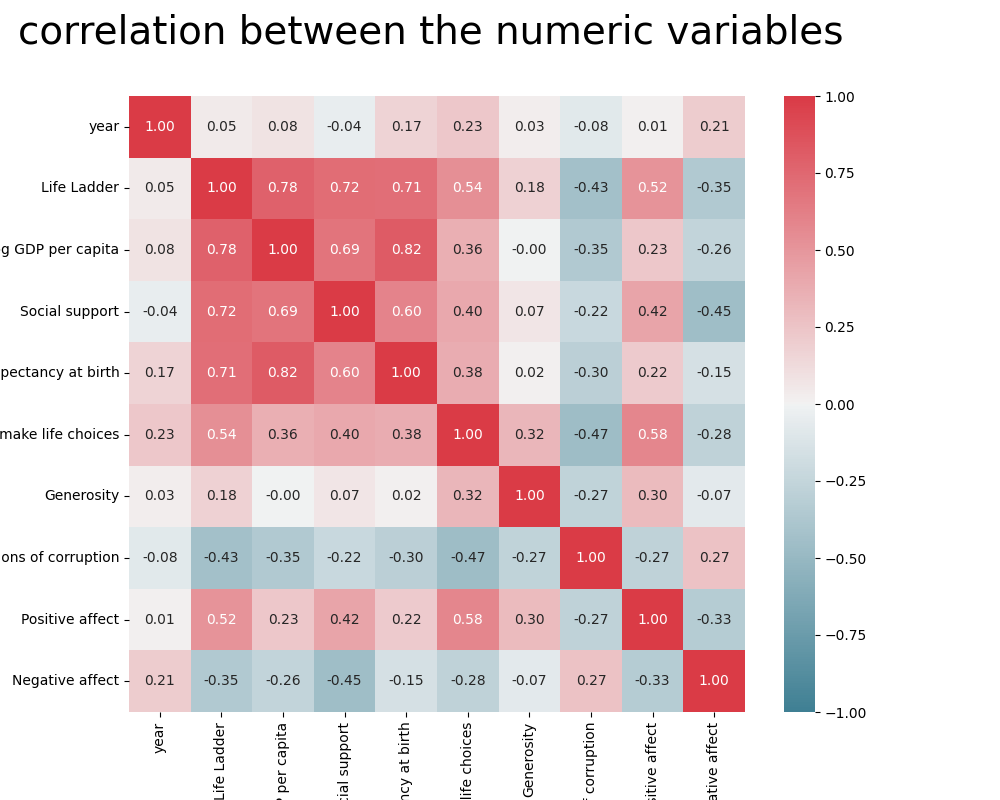
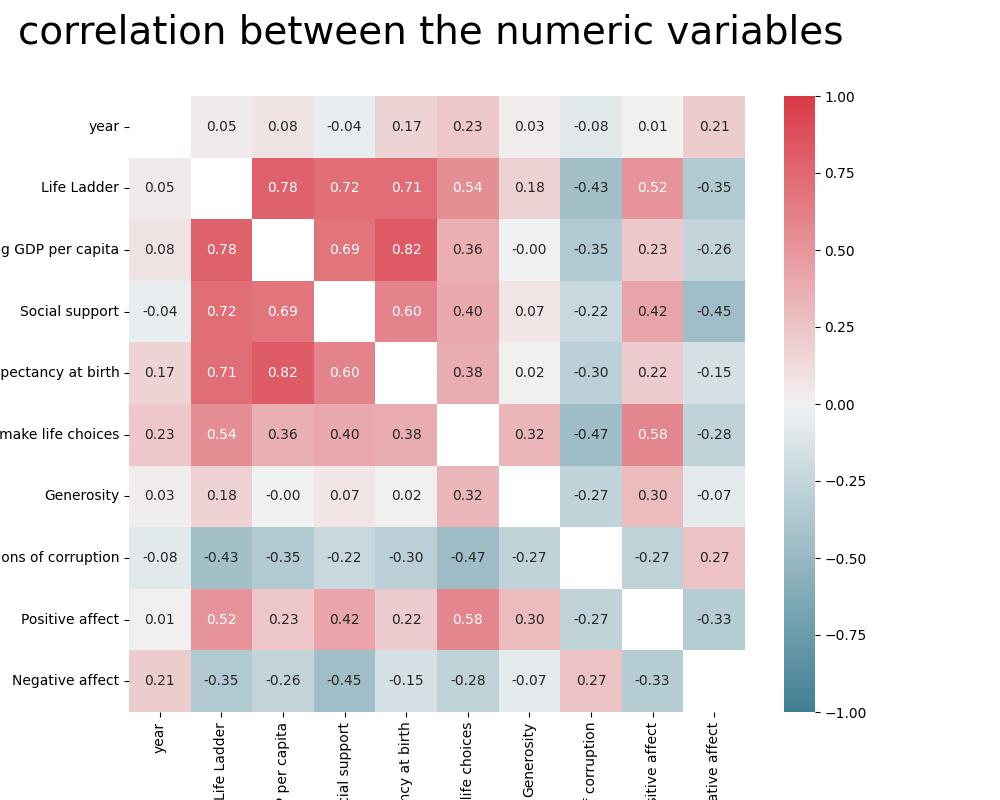
function structure update

Changed region(s): [[0.124, 0.0938, 0.558, 0.6562], [0.558, 0.6562, 0.682, 0.8125], [0.682, 0.8125, 0.744, 0.9062]]

diff --git a/autolysis.py b/autolysis.py
@@ -11,109 +11,128 @@ import sys
 import seaborn as sns
 import matplotlib.pyplot as plt
 
+# 1 create a new directory with filename
 
-# 1 extract filename
-
-file_path="".join(sys.argv[1:]) #
-file_name=os.path.splitext(os.path.basename(file_path))[0]
-
-# 2 create a new directory with filename
-new_dir = os.path.join(os.getcwd(), file_name)
-print(new_dir)
-print(file_path)
-os.makedirs(new_dir, exist_ok=True)
+def create_new_dir(file_name):
+    new_dir = os.path.join(os.getcwd(), file_name)
+    #print(new_dir)
+    #print(file_path)
+    os.makedirs(new_dir, exist_ok=True)
+    return new_dir
   
-# 3 Perform an automated generic analysis
+# 2 Perform an automated generic analysis
 
-df=pd.read_csv(file_path,encoding='latin-1')
+def auto_gen_analysis(file_path):
+    df=pd.read_csv(file_path,encoding='latin-1')
 
-# describing the data
+    # describing the data
 
-n_rows=df.shape[0] # how many samples ?
-n_cols=df.shape[1] # how many variables?
-print (n_rows,n_cols)
+    n_rows=df.shape[0] # how many samples ?
+    n_cols=df.shape[1] # how many variables?
+    #print (n_rows,n_cols)
 
-variables=np.array(df.columns) # names of the variables
+    variables=np.array(df.columns) # names of the variables
 
-# understanding the types of variables & missing values
+    # understanding the types of variables & missing values
 
-dtypes = pd.DataFrame(df.dtypes).reset_index()  
-dtypes.columns = ['variable', 'data_type']  
-missing_data=pd.DataFrame(df.isnull().sum()).reset_index()
-missing_data=missing_data.rename(columns={'index':'variable'})
-dtypes=pd.merge(dtypes,missing_data,on='variable')
-dtypes.columns=['variable','data_type','missing_data']
+    dtypes = pd.DataFrame(df.dtypes).reset_index()  
+    dtypes.columns = ['variable', 'data_type']  
+    missing_data=pd.DataFrame(df.isnull().sum()).reset_index()
+    missing_data=missing_data.rename(columns={'index':'variable'})
+    dtypes=pd.merge(dtypes,missing_data,on='variable')
+    dtypes.columns=['variable','data_type','missing_data']
 
-# segregating the numeric and categorical variables
+    # segregating the numeric and categorical variables
 
-num_var=df.select_dtypes(include=['number'])
-cat_var=df.select_dtypes(include=['object'])
+    num_var=df.select_dtypes(include=['number'])
+    cat_var=df.select_dtypes(include=['object'])
 
-# correlation map for the numerical variables
+    # correlation map for the numerical variables
 
-df_corr=num_var.corr()
-df_corr_mask=df_corr.mask(np.equal(*np.indices(df_corr.shape)))
+    df_corr=num_var.corr()
+    df_corr_mask=df_corr.mask(np.equal(*np.indices(df_corr.shape)))
 
-max_corr = df_corr_mask.abs().max().max() # fining the max correlation value
-row_max, col_max = df_corr_mask[df_corr_mask.abs() == max_corr].stack().idxmax()
+    max_corr = df_corr_mask.abs().max().max() # fining the max correlation value
+    row_max, col_max = df_corr_mask[df_corr_mask.abs() == max_corr].stack().idxmax()
 
-
+    anal_sum={
+                "n_samples":n_rows,
+                "n_variables":n_cols,
+                "var_dets":dtypes.to_dict(),
+                "num_var":num_var,
+                "cat_var":cat_var,
+                "corr_matrix":df_corr.to_dict(),
+                "max_corr_1":row_max,
+                "max_corr_2":col_max,
+                "max_corr":round(max_corr,2)
+            }
+   
+    return anal_sum,df_corr_mask,df_corr,dtypes
   
-# 4 create a README.md file
-with open(os.path.join(new_dir,'README.md'), 'w') as f:
-    f.write(f"# Analysis Summary for {file_name}.csv\n\n")
+# 3 create a README.md file
+
+def read_me(new_dir,file_name,anal_sum,dtypes):
     
-    f.write(f"The dataset conatins {n_rows} samples with {n_cols} variables each\n\n")
-    #f.write(f"the number of variables in the dataset:{n_cols} \n\n")
+    with open(os.path.join(new_dir,'README.md'), 'w') as f:
+       
+        f.write(f"# Analysis Summary for _{file_name}.csv_\n\n")
 
-    f.write("the summary is the datatypes and number of missing values is as below\n\n")
+        f.write(f"-The dataset contains **{anal_sum['n_samples']}** samples with **{anal_sum['n_variables']} variables** each\n\n")
+        
+        f.write(f"Of the {anal_sum ['n_variables']} variables, **{len(anal_sum ['num_var'].columns)} are numeric variables** while **{len(anal_sum ['cat_var'].columns)} are categorical variables** \n\n")
 
-    f.write(dtypes.to_markdown(index=False))
+        f.write("* -The summary is the datatypes and number of missing values is as below\n\n")
 
-    f.write(f"\n\nThe variables with the highest correlation are: {row_max} and {col_max}, with a correlation of {round(max_corr,2)}\n\n")
+        f.write(dtypes.to_markdown(index=False))
 
-# 5 create key charts
+        f.write(f"\n\n-The variables with the highest correlation are: **{anal_sum['max_corr_1']}** and **{anal_sum['max_corr_2']}**, with a correlation of _{anal_sum['max_corr']}_\n\n")
 
-plots = []
+    return f
 
-# correlation heat map
+# 4 create key charts
 
-plt.figure(figsize=(10, 8))
-sns.heatmap(
-    df_corr,
-    vmin=-1, vmax=1, center=0,
-    cmap=sns.diverging_palette(220,10,as_cmap=True),
-    square=True,
-    annot=True,fmt=".2f"
-)
-plt.title("correlation between the numeric variables \n",fontsize=28)
-corr_heatmap_path=os.path.join(new_dir,"corr_heatmap.png")
-plt.savefig(corr_heatmap_path)
-plt.close()
-plots.append(corr_heatmap_path)
-
-# categorical variable pie charts
-
-
-import math
-ntot=len(cat_var.columns)
-cols=math.ceil(math.sqrt(ntot))
-rows=math.ceil(ntot/cols)
-
-fig,axes=plt.subplots(rows,cols,figsize=(15,15))
-
-if ntot == 1:
-    axes = [axes]
-else:
-  axes=axes.flatten()
-
-for i,col in enumerate(cat_var.columns):
+def key_charts(df_corr_mask,new_dir,anal_sum):
     
-    data = cat_var[col].value_counts(dropna=False)
-    top5 = data.head(5)
-    rest = data.iloc[5:].sum() 
+    plots = []
 
-    plot_data=pd.concat([top5, pd.Series([rest], index=['rest'])])
+    # correlation heat map
+
+    plt.figure(figsize=(10, 8))
+    sns.heatmap(
+        df_corr_mask,
+        vmin=-1, vmax=1, center=0,
+        cmap=sns.diverging_palette(220,10,as_cmap=True),
+        square=True,
+        annot=True,fmt=".2f"
+    )
+    plt.title("correlation between the numeric variables \n",fontsize=28)
+    corr_heatmap_path=os.path.join(new_dir,"corr_heatmap.png")
+    plt.savefig(corr_heatmap_path)
+    plt.close()
+    plots.append(corr_heatmap_path)
+
+    # categorical variable pie charts
+
+
+    import math
+    ntot=len(anal_sum['cat_var'].columns)
+    cols=math.ceil(math.sqrt(ntot))
+    rows=math.ceil(ntot/cols)
+
+    fig,axes=plt.subplots(rows,cols,figsize=(15,15))
+
+    if ntot == 1:
+        axes = [axes]
+    else:
+        axes=axes.flatten()
+
+    for i,col in enumerate(anal_sum['cat_var'].columns):
+    
+        data = anal_sum['cat_var'][col].value_counts(dropna=False)
+        top5 = data.head(5)
+        rest = data.iloc[5:].sum() 
+
+        plot_data=pd.concat([top5, pd.Series([rest], index=['rest'])])
 
 
     sns.set_palette("pastel")
@@ -121,45 +140,79 @@ for i,col in enumerate(cat_var.columns):
     axes[i].set_title(col)
     axes[i].set_ylabel('')
 
-if len(cat_var.columns) < len(axes):
-    for j in range(len(cat_var.columns), len(axes)):
+    if len(anal_sum['cat_var'].columns) < len(axes):
+        for j in range(len(anal_sum['cat_var'].columns), len(axes)):
+            fig.delaxes(axes[j])
+
+    plt.title("distribution of the categorical variables \n",fontsize=28)
+    plt.tight_layout()
+
+
+    cat_pie_path=os.path.join(new_dir,"cat_pie.png")
+    plt.savefig(cat_pie_path)
+    plt.close()
+    plots.append(cat_pie_path)
+
+    # numerical variable histograms
+
+    tot_num=len(anal_sum ['num_var'].columns)
+    cols_num=math.ceil(math.sqrt(tot_num))
+    rows_num=math.ceil(tot_num/cols_num)
+
+    fig,axes=plt.subplots(rows_num,cols_num,figsize=(15,15))
+
+    if tot_num == 1:
+        axes = [axes]
+    else:
+      axes=axes.flatten()
+
+    for i,col in enumerate(anal_sum ['num_var'].columns):
+        sns.histplot(anal_sum ['num_var'][col], bins=15, ax=axes[i],kde=True)
+        axes[i].set_title(col)
+        axes[i].set_ylabel('')
+
+    for j in range(len(anal_sum ['num_var'].columns), len(axes)):
         fig.delaxes(axes[j])
 
-plt.title("distribution of the categorical variables \n",fontsize=28)
-plt.tight_layout()
+    plt.title("distribution of the numerical variables \n",fontsize=28)
+    plt.tight_layout()
 
 
-cat_pie_path=os.path.join(new_dir,"cat_pie.png")
-plt.savefig(cat_pie_path)
-plt.close()
-plots.append(cat_pie_path)
+    num_hist_path=os.path.join(new_dir,"num_hist.png")
+    plt.savefig(num_hist_path)
+    plt.close()
+    plots.append(num_hist_path)
 
-# numerical variable histograms
+    return plots
 
-tot_num=len(num_var.columns)
-cols_num=math.ceil(math.sqrt(tot_num))
-rows_num=math.ceil(tot_num/cols_num)
-
-fig,axes=plt.subplots(rows_num,cols_num,figsize=(15,15))
-
-if tot_num == 1:
-    axes = [axes]
-else:
-  axes=axes.flatten()
-
-for i,col in enumerate(num_var.columns):
-    sns.histplot(num_var[col], bins=15, ax=axes[i],kde=True)
-    axes[i].set_title(col)
-    axes[i].set_ylabel('')
-
-for j in range(len(num_var.columns), len(axes)):
-    fig.delaxes(axes[j])
-
-plt.title("distribution of the numerical variables \n",fontsize=28)
-plt.tight_layout()
+# 5 function to get LLM feedback
 
 
-num_hist_path=os.path.join(new_dir,"num_hist.png")
-plt.savefig(num_hist_path)
-plt.close()
-plots.append(num_hist_path)
+
+# 6 function to string the steps together into the main code 
+
+def main():
+
+    # 0 extract filename and file path from the system command
+
+    csv_path="".join(sys.argv[1:]) #
+    csv_name=os.path.splitext(os.path.basename(csv_path))[0]
+
+    # 1 create a new directory with filename using the defined function
+    new_directory= create_new_dir(csv_name)
+
+    # 2 perform automated analysis using the defined function
+    anlsys_sum,corr_mask,corr_mat,data_types=auto_gen_analysis(csv_path)
+
+    # 3 write a readme file using the defined function
+    readme=read_me(new_directory,csv_name,anlsys_sum,data_types)
+
+    # 4 build key charts using the defined function
+    charts=key_charts(corr_mask,new_directory,anlsys_sum)
+
+    # 5 get LLM feedback using the defined function
+
+
+# code execution block
+if __name__=="__main__":
+    main()

diff --git a/happiness/README.md b/happiness/README.md
@@ -1,8 +1,10 @@
-# Analysis Summary for happiness.csv
+# Analysis Summary for _happiness.csv_
 
-The dataset conatins 2363 samples with 11 variables each
+-The dataset contains **2363** samples with **11 variables** each
 
-the summary is the datatypes and number of missing values is as below
+Of the 11 variables, **10 are numeric variables** while **1 are categorical variables** 
+
+* -The summary is the datatypes and number of missing values is as below
 
 | variable                         | data_type   |   missing_data |
 |:---------------------------------|:------------|---------------:|
@@ -18,5 +20,5 @@ the summary is the datatypes and number of missing values is as below
 | Positive affect                  | float64     |             24 |
 | Negative affect                  | float64     |             16 |
 
-The variables with the highest correlation are: Log GDP per capita and Healthy life expectancy at birth, with a correlation of 0.82
+-The variables with the highest correlation are: **Log GDP per capita** and **Healthy life expectancy at birth**, with a correlation of _0.82_
 
